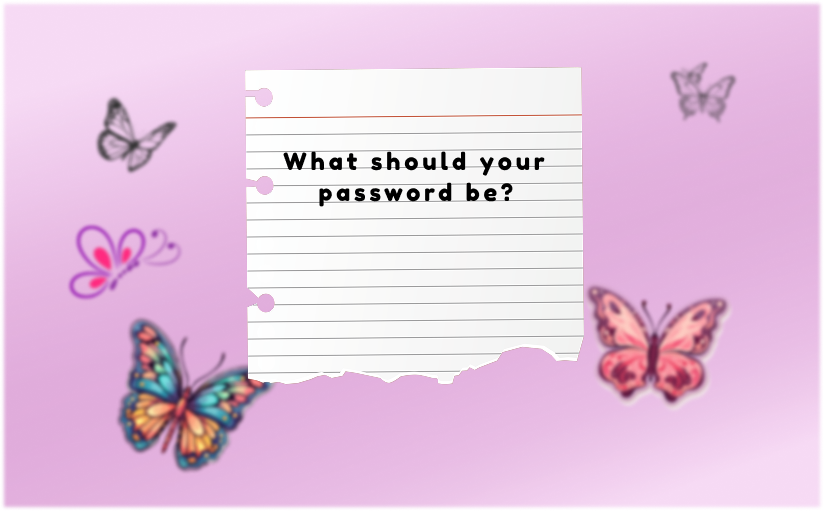
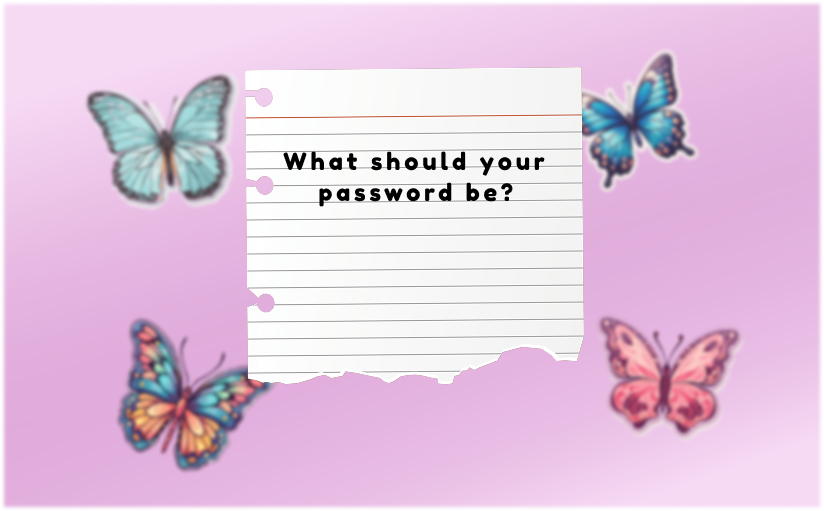
undid cursur

diff --git a/app.py b/app.py
@@ -39,6 +39,8 @@ class Launcher:
     def __init__(self):
         # Check for voice authorization, run initial setup if needed
         try:
+            # Track whether user was in fullscreen during initial setup
+            self._init_was_fullscreen = False
             if not voice_unlock._authorized_exists():
                 self._run_initial_setup_window()
         except Exception:
@@ -46,6 +48,16 @@ class Launcher:
 
         # Initialize main application with a callback for successful unlock
         self.app = App(on_unlocked=self._open_note_app)
+
+        # If initial setup was done in fullscreen, carry that over to the main GUI
+        try:
+            if getattr(self, "_init_was_fullscreen", False):
+                try:
+                    self.app.master.attributes("-fullscreen", True)
+                except Exception:
+                    pass
+        except Exception:
+            pass
 
         # Show locked landing if voice is authorized
         try:
@@ -178,13 +190,49 @@ class Launcher:
                 return
             enrolling = True
 
+            def _compute_fullscreen_like() -> bool:
+                """Best-effort fullscreen detection for the init window."""
+                try:
+                    fs = bool(init_root.attributes("-fullscreen"))
+                    if fs:
+                        return True
+                except Exception:
+                    pass
+                try:
+                    init_root.update_idletasks()
+                except Exception:
+                    pass
+                try:
+                    w = max(0, int(init_root.winfo_width()))
+                    h = max(0, int(init_root.winfo_height()))
+                    sw = max(1, int(init_root.winfo_screenwidth()))
+                    sh = max(1, int(init_root.winfo_screenheight()))
+                    tol = 8
+                    return abs(w - sw) <= tol and abs(h - sh) <= tol
+                except Exception:
+                    return False
+
             def worker():
                 try:
                     canvas.itemconfigure(status_item, text="Recording enrollment (3s)... 🎤")
                     res = voice_unlock.enroll()
                     if res:
-                        canvas.itemconfigure(status_item, text="Enrollment successful. Opening app...")
-                        init_root.after(500, init_root.destroy)
+                        # Update status and capture fullscreen state on the UI thread
+                        def _on_success():
+                            try:
+                                canvas.itemconfigure(status_item, text="Enrollment successful. Opening app...")
+                            except Exception:
+                                pass
+                            try:
+                                # Store on the launcher so __init__ can apply it to the App
+                                self._init_was_fullscreen = _compute_fullscreen_like()
+                            except Exception:
+                                pass
+                            try:
+                                init_root.destroy()
+                            except Exception:
+                                pass
+                        init_root.after(500, _on_success)
                     else:
                         canvas.itemconfigure(status_item, text="Enrollment failed. Try again.")
                         init_root.after(1500, lambda: set_enrolling(False))

diff --git a/src/voice_unlock.py b/src/voice_unlock.py
@@ -61,7 +61,7 @@ def verify():
             attempt = get_embedding(attempt_path)
             score = similarity(authorized, attempt)
             print(f"🔍 Voice similarity score: {score:.3f}")
-            if score > 0.55:
+            if score > 0.75:
                 print("✅ Access Granted! Your secret journal is unlocked 💖")
                 try:
                     from src.play_sound import play_sound
